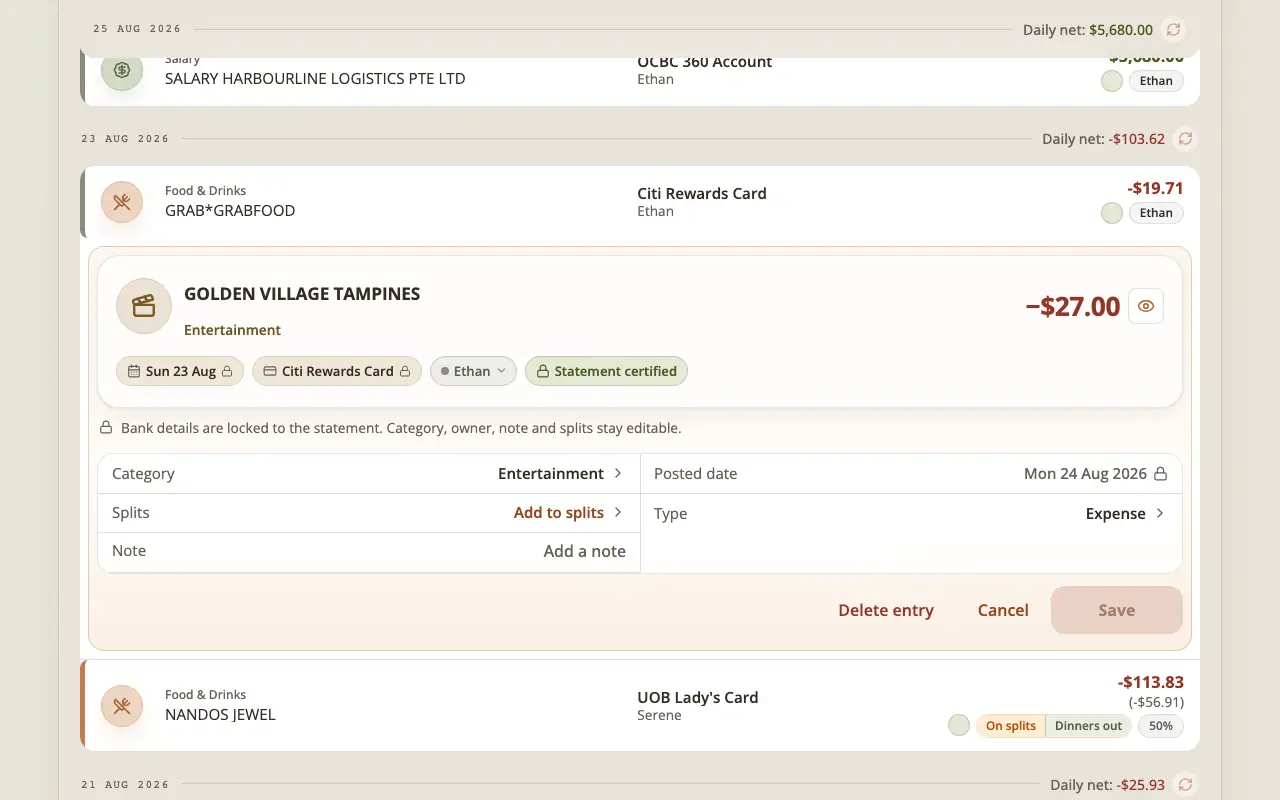
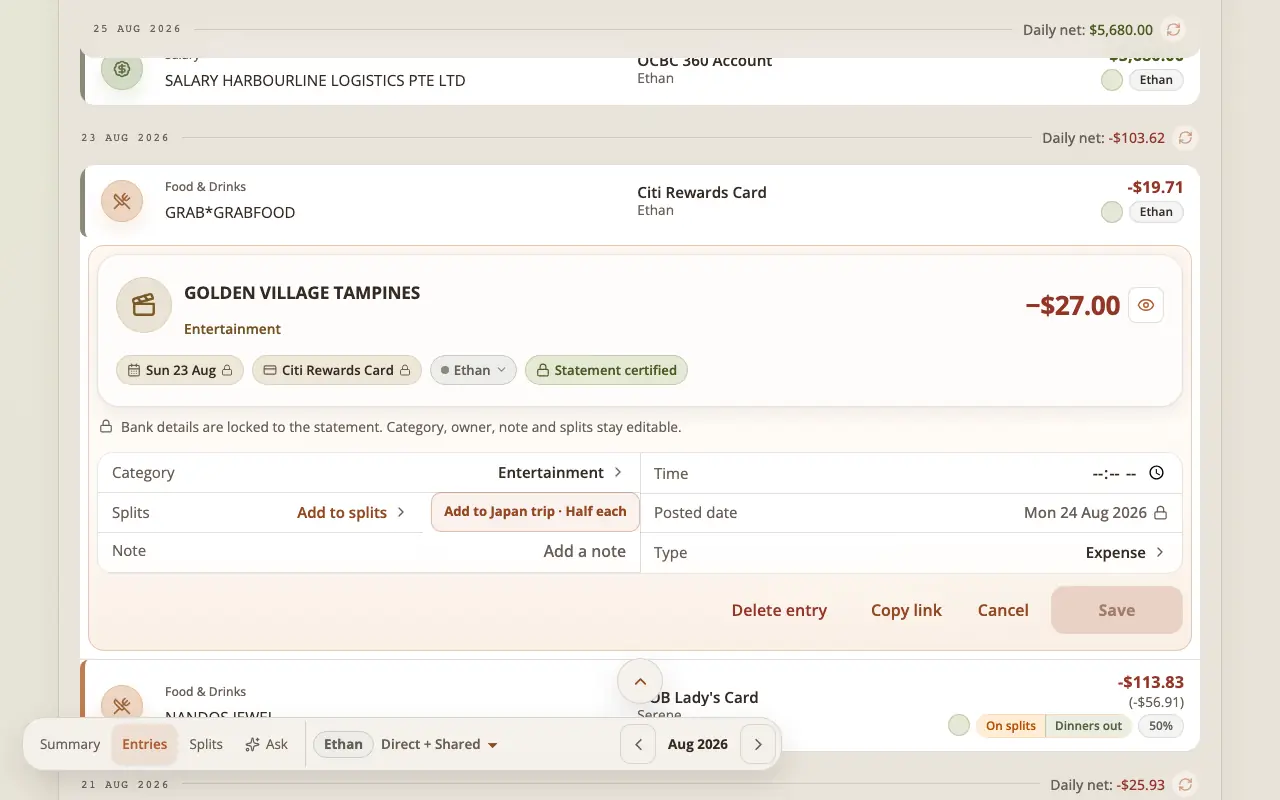
Record the Codex polish follow-ups with before/after screenshots
docs/audits/codex-polish-2/README.md lists each owner-approved item, what
it read or looked like before and after, its proof and screenshots (demo
data). The phone quick add lines up with the rows' text. The guide's
entries-edit screenshot shows the new quick add words.

diff --git a/tests/e2e/entries-add-to-splits.spec.js b/tests/e2e/entries-add-to-splits.spec.js
@@ -465,7 +465,7 @@ test("phone quick add sits on its own line under the Splits row and never cuts A
   const quickBox = await quickAdd.boundingBox();
   expect(quickBox.height).toBeGreaterThanOrEqual(44);
   expect(quickBox.y).toBeGreaterThanOrEqual(rowBox.y + rowBox.height - 1);
-  expect(quickBox.width).toBeGreaterThanOrEqual(rowBox.width - 2);
+  expect(quickBox.width).toBeGreaterThanOrEqual(rowBox.width - 32);
   const quickFits = await quickAdd.evaluate((node) => node.scrollWidth <= node.clientWidth + 1);
   expect(quickFits).toBe(true);
 

diff --git a/src/client/entries-route.css b/src/client/entries-route.css
@@ -185,7 +185,7 @@
     align-self: stretch;
     max-width: none;
     min-height: 44px;
-    margin-bottom: 6px;
+    margin: 0 14px 8px;
   }
 }
 

diff --git a/docs/audits/codex-polish-2/README.md b/docs/audits/codex-polish-2/README.md
@@ -1,0 +1,30 @@
+# Codex commits polish, part 2 (2026-10-20)
+
+The owner approved every open item of the first review
+([`../codex-polish/README.md`](../codex-polish/README.md), "For the owner to
+decide" and "Bugs noticed"): "sure, fix them all". This is the record of what
+changed. Screenshots are demo data only, before (`origin/master` at
+`166cacc2`) and after (this branch), captured on isolated local stacks with
+reduced motion.
+
+## Changed
+
+| # | Item | From | Before | After | Proof | Screenshots |
+| --- | --- | --- | --- | --- | --- | --- |
+| 1 | First-screen budget | 04d63b93 | Budget JS raised to 171,503 B with no measured reason; build 171,932 B | Budget back to **163,326 B**; build **171,041 B** (-891 B, within the 5% tolerance of 171,492 B). Moved out of the first screen: `page-flags.js` (the stacked island row and its flag now render in the lazy context-line chunk), the desktop floating-bar scroll watcher (into the lazy `scroll-direction-fab.js`, `mountLongPageChrome`), the named settings refresh plans (App needs only `settings-refresh-request.js`); the two copies of the floating tabs are one element. CSS 23,781 B (budget 23,136 B, limit 24,293 B), 7 files | `npm run check:bundle` | – |
+| 2 | Quick add squeezes the Splits row (phone) | ca9adf7b | "Add Baby River · 50/50" beside the row cut it to "Add to s…" | Its own 44 px line under the row: "Add to Baby River · Half each"; a wide screen keeps it beside the row | e2e `phone quick add sits on its own line…` (failed before) | [before](01-quick-add-phone-before.webp), [after](01-quick-add-phone-after.webp) |
+| 3 | Plan chart's Actual spending line | 087b4637 | A rose dashed line on each Spent column's own figure | **Spent so far, adding up**: Spent added month by month from the first month shown, a dashed ink line on its own axis on the right (the columns keep the left one); fades in, still for reduced motion, nothing with money hidden; its View entries totals the running figure | model, DOM and e2e tests (View entries equals the Intent cards' Spent added up) | [before](02-plan-chart-before.webp), [after](02-plan-chart-after.webp) |
+| 4 | Desktop Month bar cuts the scope | 95f91554 | "Direct + Shar…" at 1280, 1440 and 1920 px | The bar is at least 760 px and grows to its controls (never past the window or a docked Ask); "Direct + Shared" whole; only a window too narrow wraps it onto two lines. No wording change | e2e `desktop Month bar shows the whole scope…` at all three widths (failed before) | [before 1440](03-month-bar-1440-before.webp), after [1280](03-month-bar-1280-after.webp), [1440](03-month-bar-1440-after.webp), [1920](03-month-bar-1920-after.webp) |
+| 5a | Citi account check wording | a2ad65c8 | "The app will rerun all matching and coverage checks before you commit." | "This file was put on the account shown below. If that is wrong, choose the card account it came from; the import is checked again before you save it." | `tests/import-account-override-copy.test.mjs` | – |
+| 5b | Share hint | 0c4a02da | "0% means Tim owes none; if they paid, they are owed the full amount. 100% means this expense is all theirs." | "0% means none of it is Tim's: if Tim paid, Joyce owes Tim all of it. 100% means it is all Tim's." The share is the household's first person's (`splitBasisPoints`), not the viewer's, so it names the other person rather than "you" | e2e Add to splits (desktop and phone) | [before](04-share-hint-before.webp), [after](04-share-hint-after.webp) |
+| 5c | "50/50" for an even split | ca9adf7b, Ask | "Add Baby River · 50/50", "Split 50/50", "Split 50/50 in Home", "Add to splits 50/50 with Joyce" | "Add to Baby River · Half each", "Half each", "Half each in Home", "Add to splits half each with Joyce". 0% / 50% / 100% choices and 70/30 habits keep their numbers; typing "50/50" still reads as even. Not added to `retired-names.ts`: the readers must keep understanding a typed "50/50", so a scoped guard is used instead | `tests/split-share-wording.test.mjs` (no visible 50/50 split label outside the readers) | in 01 |
+| 5d | Copy link words | 0c4a02da | "Copy link" / "Link copied" hard-coded in `entries-list.jsx` | `copy/entry-link-copy.js` | `tests/entry-link-copy.test.mjs` | – |
+| 6 | Copy link fails silently | 0c4a02da | A refused clipboard: nothing at all | "Couldn't copy. Select the link and copy it instead." (phone: "Press and hold the link to copy it instead.") and the link in a read-only box, selected. Never a browser alert | e2e with a stand-in clipboard, both paths (failure failed before) | [before](05-copy-link-refused-before.webp), [after](05-copy-link-refused-after.webp) |
+| 7 | One-off capture scripts | ec61fe86, e8c517a0 | `scripts/capture-island-context.mjs`, `scripts/capture-contextual-actions.mjs` | Removed; nothing imported them; the developer guide and the two audits updated | – | – |
+| 8a | Ask card wallet chip mid-save | 459ddc25 (reported as cb1cbc85) | Tappable while saving; opened the draft wallet picker | A draft's chips edit it, a saved card's wallet chip opens the saved wallet picker, a saving card's chips are plain text; the panel ignores a field opened on a non-draft | `tests/ask-entry-card-dom.test.mjs` (failed before) | – |
+| 8b | Ask "my" in the household view | 459ddc25 | Fell back to the payer of the entry in focus | The signed-in person asking (verified Access email to `login_identities`, read on the server), else the person viewed, else unknown and asked back; the rules' readers too | `tests/ask-turn.test.mjs`, `tests/ask-turn-route.test.mjs` (failed before) | – |
+| 8c | HSBC activity fallback account | 7e85fa0d | "HSBC Visa Revolution" made up when no HSBC card was selected | Selected HSBC card; else the household's HSBC card carrying the file's last four digits (or its only HSBC card); else "HSBC card ending 1234", which the preview asks the person to map | `tests/parser-contract.test.mjs` on the sanitized near-real fixture (failed before) | – |
+| 9 | Plan Studio flake | e8c517a0 | "the header period picker consumes a dismissal click on a slider" failed about 3 in 10 | Root cause: Radix adds its outside-press listener in a `setTimeout(0)` after the popover shows, and Chromium runs a queued input event before a queued timer; a probe showed the press landing on `<html>` with pointer events already off in passing and failing runs alike. The app is right (no person clicks within those milliseconds); the test waits for the listener | `--repeat-each=20` green | – |
+
+The guide's `entries-edit` screenshot was regenerated for the new quick add
+words.

diff --git a/docs/README.md b/docs/README.md
@@ -273,3 +273,4 @@ Historical records of finished work. Do not update them.
 
 - [`audits/contextual-actions.md`](audits/contextual-actions.md): slider popup dismissal, contextual filter focus, phone plan actions and repeated unit-setup measurements.
 - [`audits/codex-polish/README.md`](audits/codex-polish/README.md): review of the 2026-10-16..19 commits (phone island, floating bars, direction button, split choices), the fixes with before/after screenshots, and what is left for the owner.
+- [`audits/codex-polish-2/README.md`](audits/codex-polish-2/README.md): the owner-approved follow-ups to that review (first-screen budget restored, phone quick add, the plan chart's running total, the Month bar's scope, plain words, Copy link failure, three Ask/import bugs, the Plan Studio flake), with before/after screenshots.
